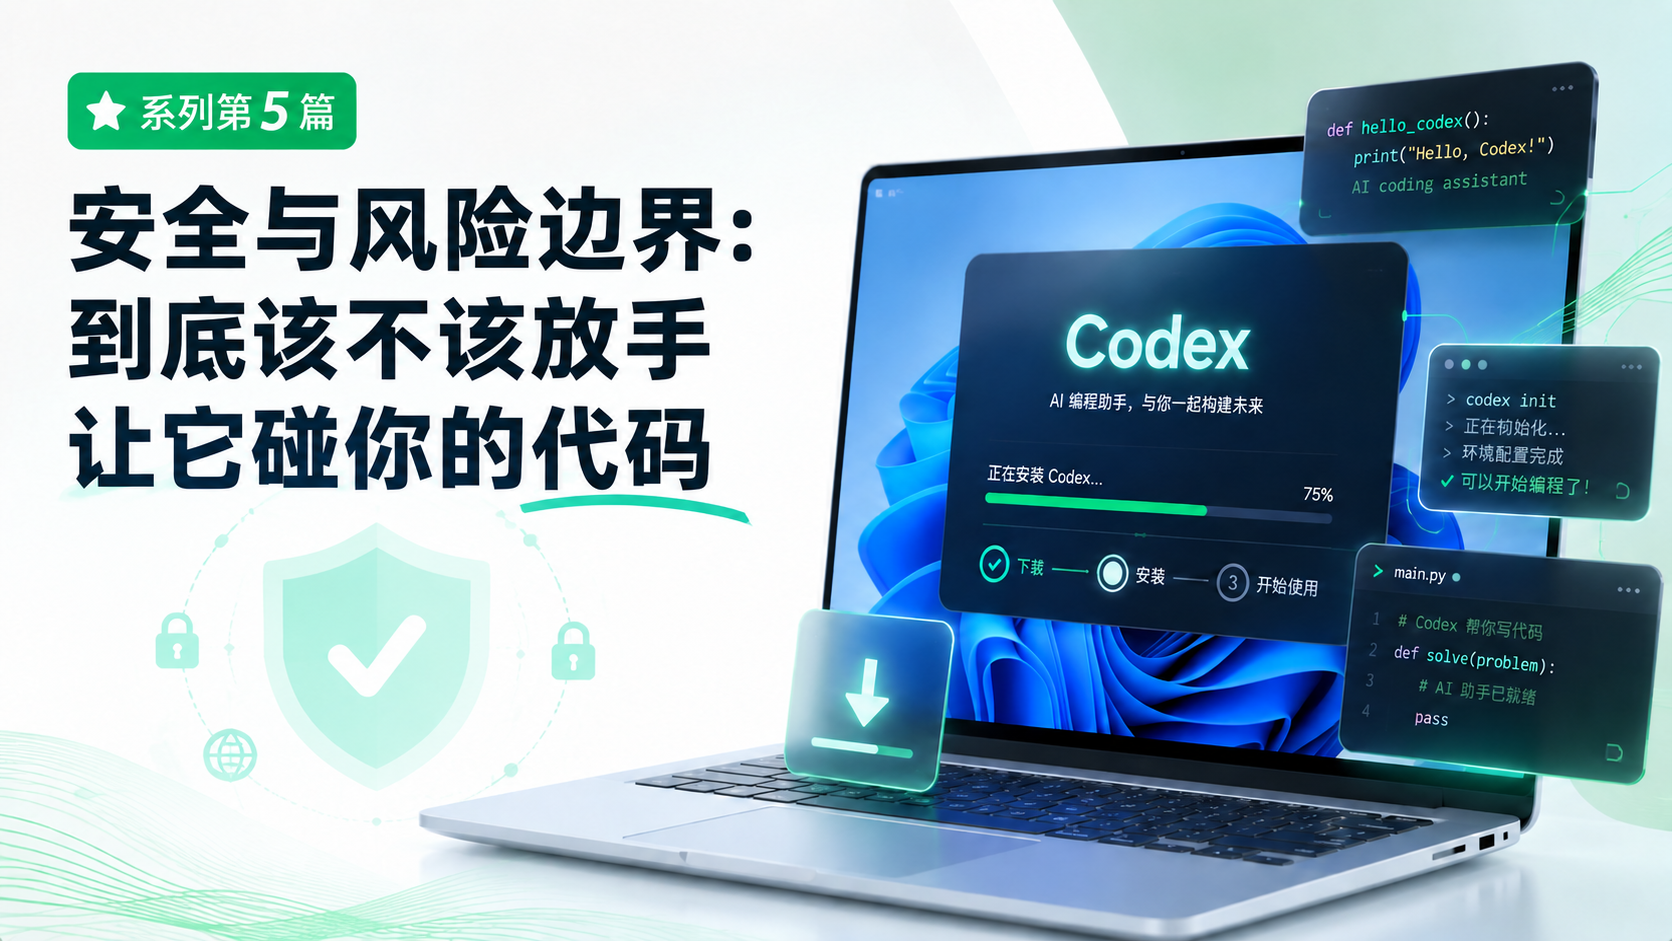
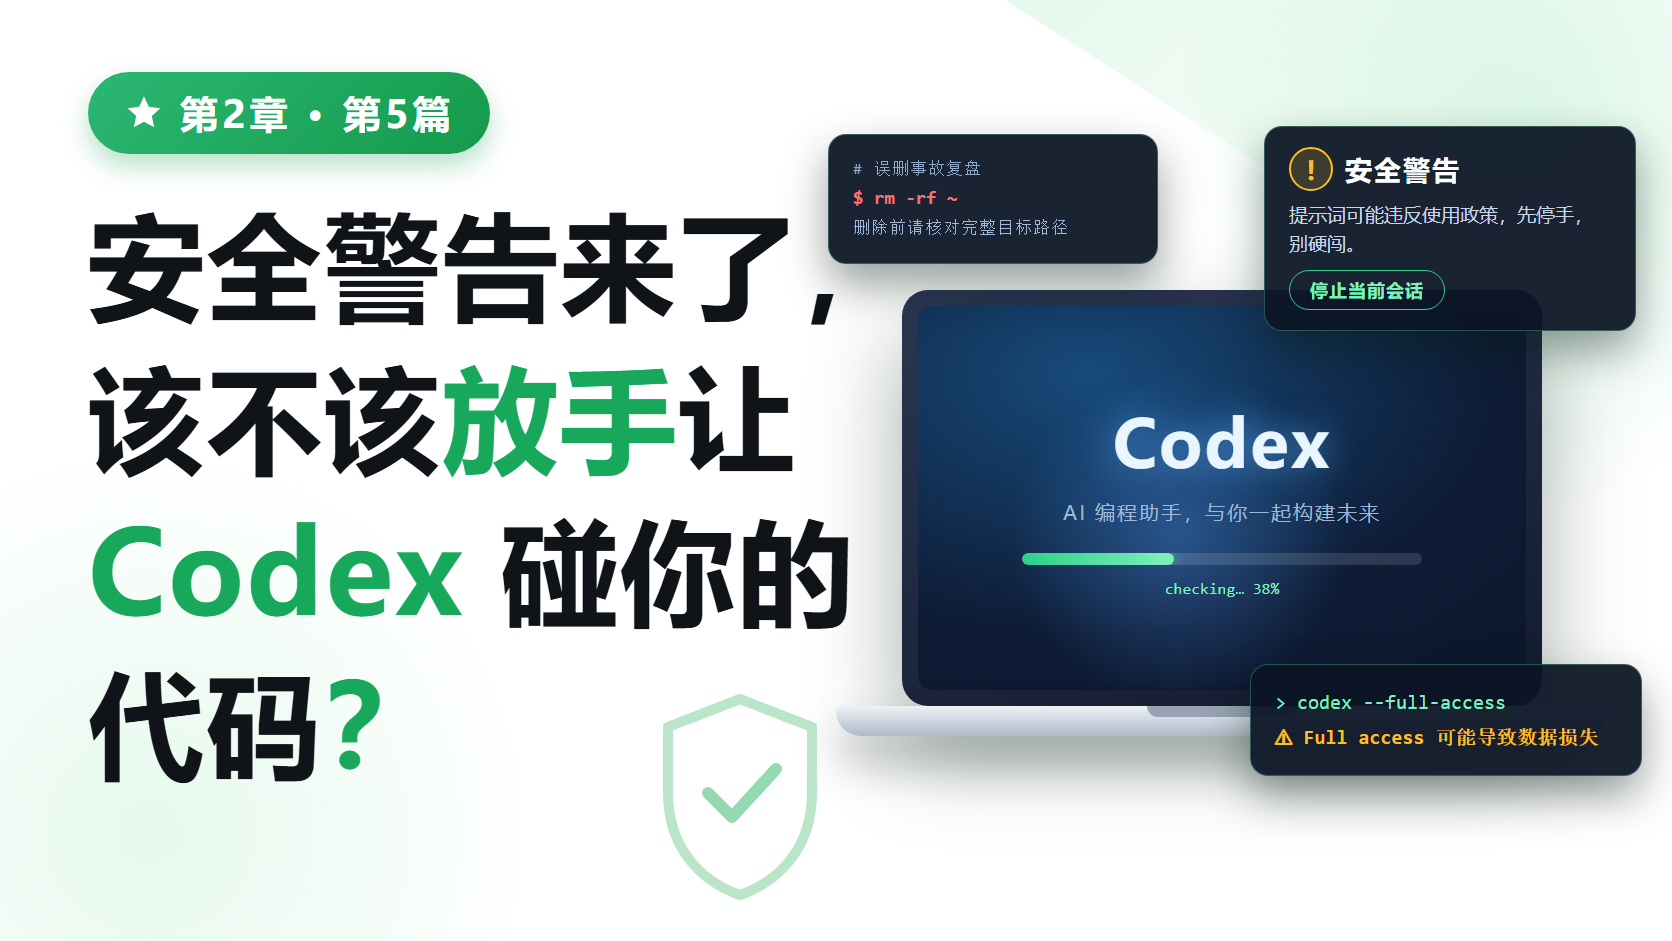
docs(gzhwz): 补充第 05 篇安全文章收尾材料与 Mac 补拍步骤
- 新增 screenshot-prompts-mac.md：7 张本机截图的 computer-use/手动执行步骤，含脱敏与安全护栏
- 更新处理报告：补记 3 条历史文章标题式埋点，修正图三/图四尺寸记录
- 更新 manifest.tsv 图三/图四尺寸为 1680x949
- 纳入引流标题备选与封面定稿

diff --git a/02-核心概念与任务方法/05-安全与风险边界-到底该不该放手让它碰你的代码-图片备份-20260820-2119/gzhwz-processing-report.md b/02-核心概念与任务方法/05-安全与风险边界-到底该不该放手让它碰你的代码-图片备份-20260820-2119/gzhwz-processing-report.md
@@ -19,7 +19,7 @@
 
 两张处理图均按 imagegzh 一号样式生成：保留原页面内容，增加透明圆角外框、浅灰边框和轻阴影；未改写截图文字或布局。处理图尺寸均为 1721×1309，四角透明，已用本地图片查看器复核。
 
-两张 HIAPI 图改为无人物编辑部插画风重新生成，再按 imagegzh 一号样式输出为新 PNG，保留代码、沙箱、审批、盾牌、回退和影响范围等物件叙事主体，增加透明圆角外框、浅灰边框和轻阴影；图注明确标注“AI 生成/教学示意”，不作为官方界面或事实证据。输出尺寸为 1672×941，四角透明，已人工检查主体完整、无人物、无品牌和无可误认的产品界面。
+两张 HIAPI 图改为无人物编辑部插画风重新生成，再按 imagegzh 一号样式输出为新 PNG，保留代码、沙箱、审批、盾牌、回退和影响范围等物件叙事主体，增加透明圆角外框、浅灰边框和轻阴影；图注明确标注“AI 生成/教学示意”，不作为官方界面或事实证据。输出尺寸为 1680×949（2026-08-21 第二轮用 Pillow 复核，修正原记录的 1672×941），四角透明，已人工检查主体完整、无人物、无品牌和无可误认的产品界面。
 
 二维码 `../wechat-qr.png` 使用 gzhwz 默认源文件原样复制，未调用 imagegzh，不参与正文图号。
 
@@ -27,15 +27,20 @@
 
 | event_id | stage | position | intent | target_type | target_title | url | utm_status | verification_status | copy_role | post_publish_metrics |
 |---|---|---|---|---|---|---|---|---|---|---|
+| `opening-prerequisite-01` | opening | 测试环境摘要之后、“先处理警告”之前 | continue-reading | 历史文章 | 别再把 Codex 当成“会写代码的 ChatGPT”：一文看懂它到底怎么工作 | 由公众号后台绑定 | 不适用：由公众号后台绑定 | 已核对标题，待作者在后台绑定 | 承诺 | 阅读/点击/深读/关注/评论/咨询/转化：待记录 |
 | `contextual-sandbox-evidence-01` | contextual | “两种警告不要混为一谈”之后 | verify-evidence | 外部资料 | OpenAI Sandbox | https://developers.openai.com/codex/concepts/sandboxing | 不可添加：官方资料保留原 URL | 已核验，浏览器直接打开 | 证据 | 阅读/点击/深读/关注/评论/咨询/转化：待记录 |
 | `decision-full-access-warning-01` | decision | “误删文件的复盘”中段 | verify-evidence | 外部资料 | Windows sandbox | https://developers.openai.com/codex/windows/windows-sandbox | 不可添加：官方资料保留原 URL | 已核验，浏览器直接打开 | 证据 | 阅读/点击/深读/关注/评论/咨询/转化：待记录 |
+| `contextual-lessons-01` | contextual | “误删文件的复盘”图三图注之后 | continue-reading | 历史文章 | 别一上来就让 Codex 改项目，我已经替你踩过坑了 | 由公众号后台绑定 | 不适用：由公众号后台绑定 | 已核对标题，待作者在后台绑定 | 补充 | 阅读/点击/深读/关注/评论/咨询/转化：待记录 |
+| `decision-first-task-01` | decision | “适合交给 Codex 的任务，也要有边界”第二段之后 | continue-reading | 历史文章 | 第一次让 Codex 改项目，我建议你先从这个小任务开始 | 由公众号后台绑定 | 不适用：由公众号后台绑定 | 已核对标题，待作者在后台绑定 | 补充 | 阅读/点击/深读/关注/评论/咨询/转化：待记录 |
 | `closing-website-01` | closing | 总结之后、微信区块之前 | take-action | 网站 CTA | CodexGuide 进阶教程 | https://codexguide.io/advanced?utm_source=wechat&utm_medium=article&utm_campaign=codex-safety-risk-boundary&utm_content=closing-website-01 | 已添加：`utm_content=closing-website-01` | 已核验 canonical | 行动 | 阅读/点击/深读/关注/评论/咨询/转化：待记录 |
-| `closing-wechat-01` | closing | 网站 CTA 之后、全文最后 | ask-or-connect | 微信 CTA | 微信交流 | 不适用 | 不适用：二维码入口 | 已核验，使用默认源文件 | 关系承接 | 阅读/点击/深读/关注/评论/咨询/转化：待记录 |
+| `closing-wechat-01` | closing | 网站 CTA 之后、全文最后 | ask-or-connect | 微信 CTA | 微信交流 | 不适用 | 不适用：二维码入口 | 已核验，使用默认源文件（与 `D:\CodexHome\skills\gzhwz\assets\wechat-qr.png` SHA-256 一致） | 关系承接 | 阅读/点击/深读/关注/评论/咨询/转化：待记录 |
 
-本篇没有自然的历史文章入口。原因是第 05/06 篇尚未确认已发布标题，未强行加入公众号后台绑定目标。
+2026-08-21 第二轮补记：上一轮记录“本篇没有自然的历史文章入口”，当时只考虑了 05/06 篇自身尚未发布；复核目录后确认《别再把 Codex 当成“会写代码的 ChatGPT”：一文看懂它到底怎么工作》《别一上来就让 Codex 改项目，我已经替你踩过坑了》《第一次让 Codex 改项目，我建议你先从这个小任务开始》三篇已发表且与本文段落语义高度匹配，本轮已按标题式绑定写入正文 opening、contextual、decision 三个位置，发布时由作者在公众号后台搜索同名文章绑定。三条标题均逐字取自 `historical-article-catalog.md`（2026-08-20 白名单），同一目标只出现一次，无连续段落 CTA。
 
 ## 待确认
 
+- 三条历史文章标题（opening/contextual/decision）需作者在公众号编辑器中选中标题，通过“已发表内容”搜索同名文章完成绑定。
 - 发布前复核 OpenAI 官方页面是否更新了 Full access 和 Windows Sandbox 的措辞。
-- 作者仍需补拍真实 Codex 警告、新会话和删除目标核验画面；公开文档截图不能替代这些本机操作证据。
+- 作者仍需补拍真实 Codex 警告、新会话和删除目标核验画面；公开文档截图不能替代这些本机操作证据。补拍 prompt 已写入 [`screenshot-prompts-mac.md`](./screenshot-prompts-mac.md)，交由 Mac mini computer-use 执行，拍回后按 imagegzh 一号样式处理再入正文。
 - 微信后台绑定网站链接并检查二维码区块位于全文最后。
+- 正文末尾的“配图素材备用区”是写作工作区，复制到公众号编辑器时应只取到微信二维码区块为止，不要把备用区清单一并发布。

diff --git a/02-核心概念与任务方法/05-安全与风险边界-到底该不该放手让它碰你的代码-图片备份-20260820-2119/screenshot-prompts-mac.md b/02-核心概念与任务方法/05-安全与风险边界-到底该不该放手让它碰你的代码-图片备份-20260820-2119/screenshot-prompts-mac.md
@@ -1,0 +1,88 @@
+# Mac mini computer-use 补拍 prompt（第 05 篇配图）
+
+> 用法：把下面"任务 Prompt"整段粘贴给 Mac mini 上的 computer-use agent。拍完后把 7 张 PNG 拷回本文工作区，替换正文中对应的官方截图或作为补充证据。
+
+## 任务 Prompt（直接粘贴）
+
+```
+你在一台 Mac mini 上操作 macOS。任务：为一篇 Codex 安全教程补拍 7 张界面截图。
+
+【硬性安全规则——任何一条违反就立即停止并报告】
+1. 所有操作只在一次性测试目录 ~/codex-screenshot-demo/ 里进行。先创建它：
+   mkdir -p ~/codex-screenshot-demo && cd ~/codex-screenshot-demo && git init
+   禁止打开、修改、删除用户主目录下任何其他文件夹、真实项目或生产数据。
+2. 遇到"批准/Allow/确认"按钮时，停在点击之前截图，截图后一律按 Esc 或选拒绝，不实际执行高风险命令。
+3. 不截图、不录入：账号、邮箱、组织名、API Key、Token、Cookie、登录二维码、
+   手机号、付款信息、真实工作区路径。终端里如出现，先清屏或用测试数据覆盖再截。
+4. 不故意提交可能违反使用政策的内容（第 6 张图有特殊说明，见下）。
+5. 截图只保留目标窗口本身（用 Cmd+Shift+4 再按空格点选窗口），不要截整个桌面、
+   不要带入 Dock 通知、私人标签页或其他窗口。
+
+【输出要求】
+- 全部保存为 PNG，放到 ~/codex-screenshot-demo/shots/，文件名严格如下：
+  01-permission-mode-selector.png
+  02-approval-prompt-before-command.png
+  03-git-diff-review.png
+  04-focused-test-result.png
+  05-risk-checklist.png
+  06-policy-warning-new-session.png
+  07-delete-target-review.png
+- 每张拍完立即用 Quick Look 打开确认文字清晰、无敏感信息，不合格当场重拍。
+- 最后输出一份清单：每张图是否拍到、画面里证明了什么、哪张没拍到及原因。
+
+【第 1 张：权限模式选择器】
+打开 Codex（CLI 或桌面端均可，优先桌面端界面更直观），进入权限/Permissions 设置，
+展开审批模式和沙箱模式的可选项。画面要同时看到"当前模式"和"其他可选模式"，
+证明权限不是单纯的开/关。停在"应用/确认"之前截图。
+
+【第 2 张：命令批准提示】
+在 ~/codex-screenshot-demo/ 里启动一个 Codex 会话，给它一个会修改文件的小任务
+（例如"创建一个 hello.txt 并写入一行字"）。当 Codex 弹出批准提示、显示将要执行的
+命令和目标路径时截图。画面必须包含：完整命令、目标范围、批准/拒绝按钮。
+停在批准按钮之前，截完拒绝该命令。
+
+【第 3 张：git diff 复核】
+在 ~/codex-screenshot-demo/ 里手动改动两三个文件（内容随意，用测试文本），
+终端依次运行：
+  git add -A && git commit -m init（先有一个基线提交）
+  改文件后：git diff --stat
+  再运行：git diff
+截取同时能看到 --stat 摘要和具体差异的终端画面。证明"测试之外还要看实际差异"。
+
+【第 4 张：聚焦测试结果】
+在测试目录里放一个最小测试（例如一个 Python 文件加一个 pytest 用例，或 npm test），
+终端运行该聚焦测试命令。截取包含"实际命令 + 通过/失败统计"的画面。
+不执行任何发布、合并、推送操作。
+
+【第 5 张：风险判断清单】
+用文本编辑器打开一个 Markdown 文件，内容只放这张四问清单（从下文原样复制）：
+  1. 它会接触什么：示例代码、个人文件、凭据、客户数据，还是生产资源？
+  2. 能不能回退：有 Git、备份、事务或可丢弃环境吗？
+  3. 怎么验证：有聚焦测试、构建、预览和人工复核吗？
+  4. 出错会怎样：影响一个分支，还是会删除、发送、发布或改变云资源？
+截取清单完整可见的画面，窗口里不要出现其他私人文件内容。
+
+【第 6 张：政策警告 + 新会话（特殊：允许拍不到）】
+不要故意构造或反复提交违规提示去触发警告，那会触发账号风控，与文章立场相反。
+只在以下两种情况截图：
+  a) 今天正常使用 Codex 时自然出现过"prompt was flagged / 违反使用政策"类提示；
+  b) 此前已有留存的真实警告画面。
+拍到警告后，停止提交，新建一个空白会话，截取"警告提示 + 空白新会话"同屏
+（或警告与新建会话按钮同框）的画面，隐藏账号与网络信息。
+如果没有自然出现的警告，这张标记为"未拍到"，直接跳过，不要伪造。
+
+【第 7 张：删除前核对目标路径】
+在 ~/codex-screenshot-demo/ 里建一个可丢弃子目录 tmp-cleanup/（里面放几个测试文件）。
+在终端输入一条指向该目录的删除命令，例如：
+  rm -rf ~/codex-screenshot-demo/tmp-cleanup
+但不要按回车。调整终端让完整目标路径清晰可见，旁边另开一个终端窗口显示
+git status 或 ls 结果作为"删除前核对"的对照。截取两个窗口同框画面后，
+按 Ctrl+C 取消命令，禁止真正执行删除。
+```
+
+## 拍完之后（人工或下一轮 agent 做）
+
+1. 把 `~/codex-screenshot-demo/shots/` 下的 PNG 拷回本工作区（本目录）。
+2. 按 gzhwz/imagegzh 一号样式逐张处理：清理浏览器/滚动条残片，4 px 白边、10 px 圆角、1 px `#d9d9d9` 边框、轻阴影；不改动画面文字。
+3. 对照 `manual-steps.md` 的验收点逐张勾选；`06` 允许空缺，空缺时在交付报告中写"未拍到 + 原因"，不伪造。
+4. 原图留在本备份目录，处理图输出到文章目录并更新正文引用与 `gzhwz-processing-report.md` 映射。

diff --git a/02-核心概念与任务方法/05-安全与风险边界-到底该不该放手让它碰你的代码-引流标题.md b/02-核心概念与任务方法/05-安全与风险边界-到底该不该放手让它碰你的代码-引流标题.md
@@ -1,0 +1,25 @@
+# 第二章第 5 篇｜引流标题备选
+
+文章原题：安全与风险边界：到底该不该放手让它碰你的代码
+
+## 推荐使用
+
+### 安全警告、误删文件：到底该不该放手让 Codex 碰你的代码？
+
+推荐理由：把文章的两个核心场景（政策警告止损、误删事故复盘）直接放进标题，对应读者最担心的真实问题，语气自然，适合公众号标题和分享卡片。
+
+## 其他备选
+
+1. Codex 弹出“提示词违规”警告，第一步该做什么
+2. 一次误删复盘：Codex 的风险边界到底在哪
+3. 别让一次误删变成真实损失：Codex 使用中的止损清单
+4. 新开会话不是万能药：Codex 安全警告的正确处理顺序
+5. Full access 有多危险？从一次 Codex 误删事故说起
+6. 让 Codex 改代码之前，先想清楚这四个风险问题
+7. 警告来了别硬闯：Codex 安全边界的止损方法
+
+## 使用说明
+
+- 本文归档位置：第二章“核心概念与任务方法”第 5 篇。
+- 绿色系列封面已生成：`D:\codexguide_all\教程\02-核心概念与任务方法\05-安全与风险边界-到底该不该放手让它碰你的代码-cover-05.png`。
+- 测试环境：Windows 11 24H2（build 26100）；Codex CLI 0.147.0；2026-08-20 核验。
